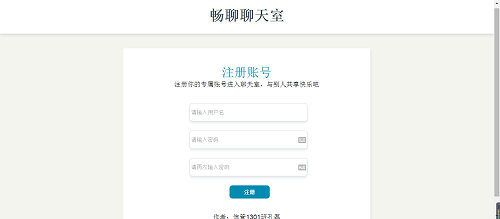
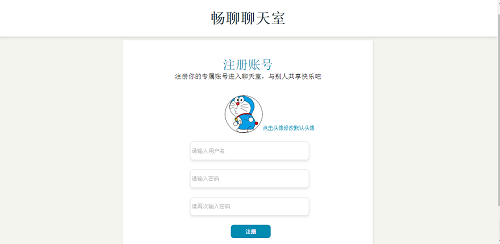
change register img

diff --git a/README.md b/README.md
@@ -19,7 +19,7 @@ ejs模板渲染，mongodb存储用户基本信息，socket.io通信模块
  clone后，npm install装包，node start启动项目（需要本地启动好数据库哦!）
 
 ### 预览一下
- ![注册](https://github.com/dannisi/chatroom/blob/fe-1.0/screenshots/register.png)
+ ![注册](https://github.com/dannisi/chatroom/blob/fe-1.0-2/screenshots/register.png)
 
  ![聊天室](https://github.com/dannisi/chatroom/blob/fe-1.0/screenshots/chat.png)
 
